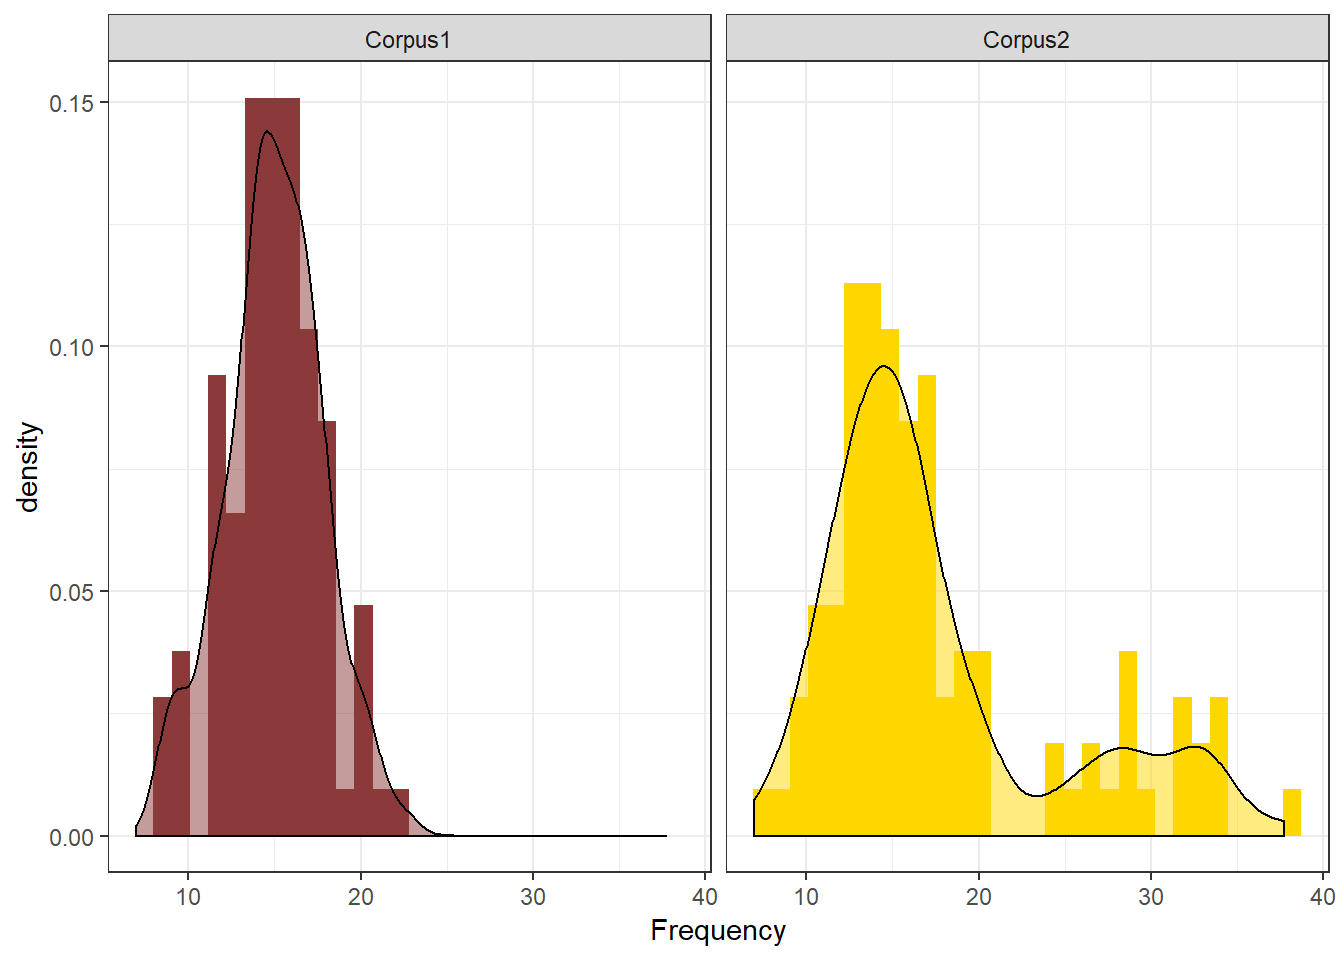
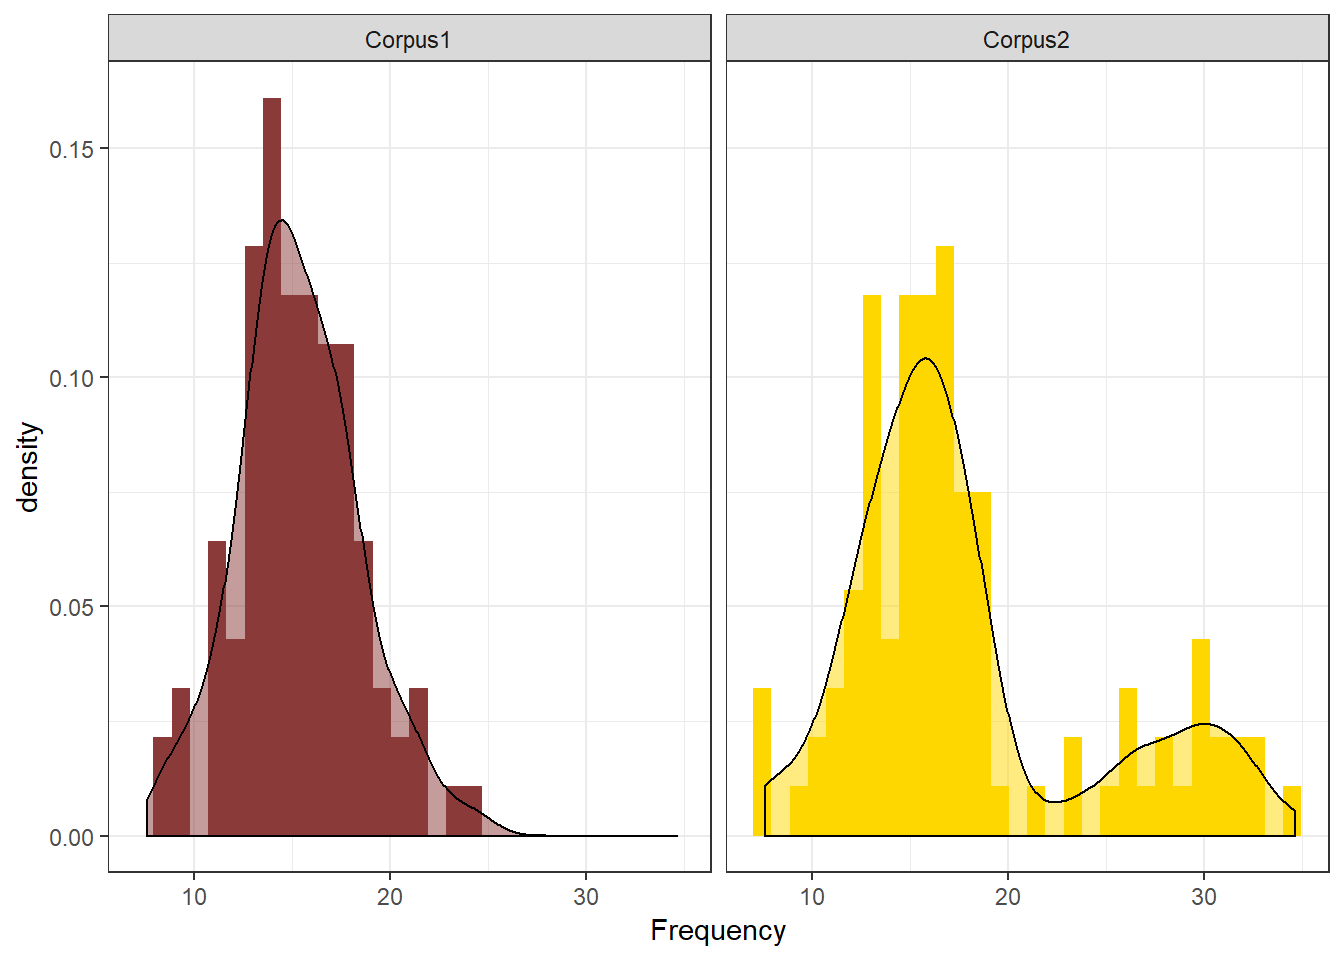
20190213_2

diff --git a/basicquant.html b/basicquant.html
@@ -938,21 +938,21 @@ alpha-error
 ##  Shapiro-Wilk normality test
 ## 
 ## data:  c1
-## W = 0.98953, p-value = 0.6264</code></pre>
+## W = 0.98993, p-value = 0.6593</code></pre>
 <pre><code>## 
 ##  Shapiro-Wilk normality test
 ## 
 ## data:  c2
-## W = 0.85392, p-value = 1.659e-08</code></pre>
+## W = 0.8787, p-value = 1.599e-07</code></pre>
 <p>Accordign to the Shapiro-Wilk test, the distribution in Corpus 1 is normal while the distribution in Corpus 2 is non-normal. It important to mention here that the Shapiro-Wilk test is inexact for small samples (N &lt; 60) but to rigorous for large samples (N &gt; 200).</p>
 <p>One issue that we face now that we have confirmed that the distribution in Corpus 2 is non-normal relates to the description of the data. If data are non-normal, then the usual descriptive statistics (mena, median, stadard deviattion) are not really appropriate because they either assume normality (mena and standard deviation) or they are unfit to report non-normal structure). Therefore, when dealing with non-normal data, it is common to use alternative descriptive statistics.</p>
 <pre><code>##    Min. 1st Qu.  Median    Mean 3rd Qu.    Max. 
-##   6.939  12.999  15.425  17.638  19.379  37.726</code></pre>
+##   7.592  13.545  16.123  17.887  18.799  34.637</code></pre>
 <pre><code>##      25%      50%      75% 
-## 12.99931 15.42518 19.37860</code></pre>
-<pre><code>## [1]  6.938548 37.725820</code></pre>
-<pre><code>## [1] 2.828783</code></pre>
-<pre><code>## [1] 6.379283</code></pre>
+## 13.54488 16.12335 18.79887</code></pre>
+<pre><code>## [1]  7.592279 34.637169</code></pre>
+<pre><code>## [1] 2.64224</code></pre>
+<pre><code>## [1] 5.253992</code></pre>
 <pre><code>##   id text.id subfile spk.ref             zone      date    sex   age
 ## 1  1 S1A-001       1       A northern ireland 1990-1994   male 34-41
 ## 2  2 S1A-001       1       B northern ireland 1990-1994 female 34-41
